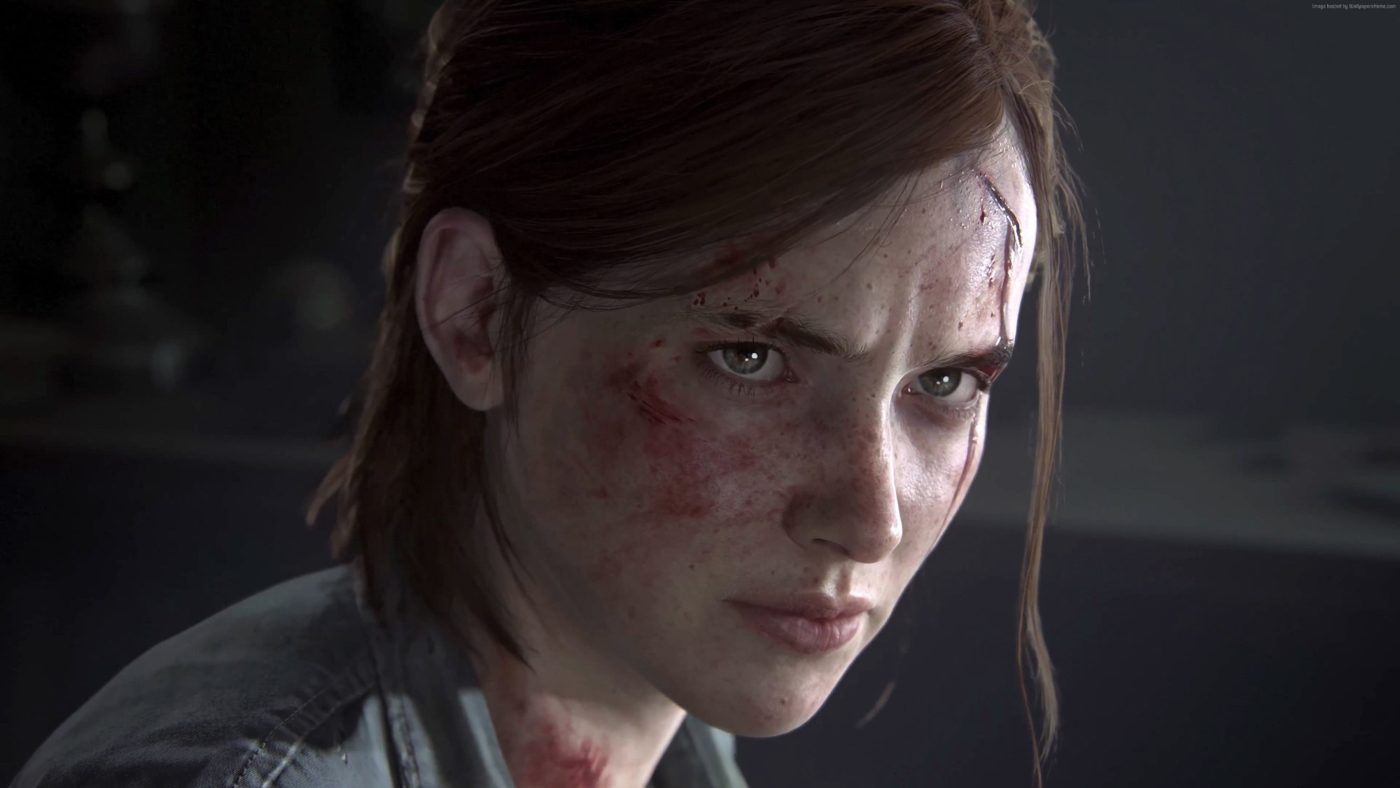
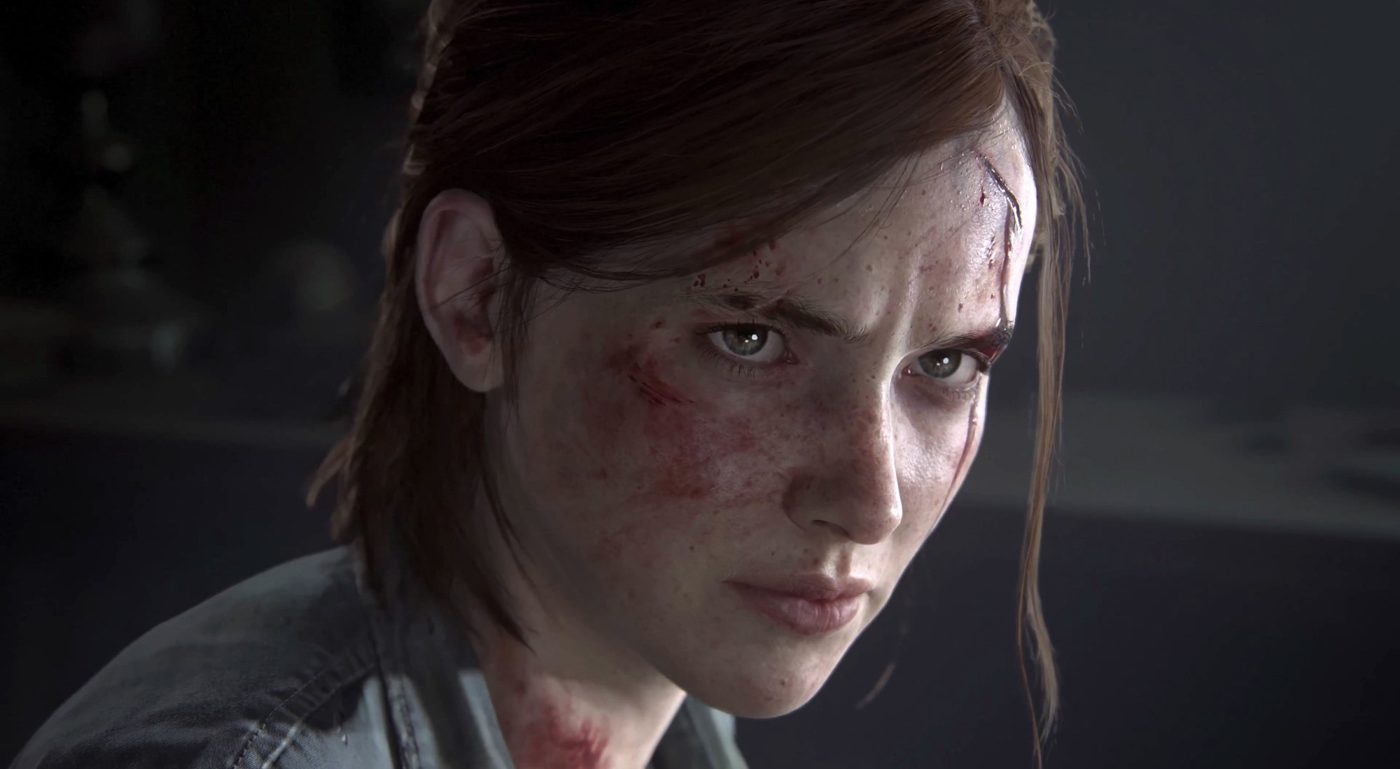
Adiciona a frase da Ellie e a galeria em mosaico
- Cena com "I'm gonna find... and I'm gonna kill... every last one of
  them." (trailer de revelação, PSX 2016), parte por parte ao rolar
- Galeria com 4 fotos em mosaico e tela cheia via :target, sem JS
- Remove a citação repetida da cena da História
- Corta a marca d'água das fotos da Ellie e do baile

Claude-Session: https://claude.ai/code/session_01D7wsjAZrT2zQHAjBL7Bj7g

diff --git a/index.html b/index.html
@@ -87,8 +87,29 @@
             Ellie e Joel construíram uma vida em Jackson, Wyoming. Mas quando um acontecimento violento
             destrói essa paz, Ellie parte numa jornada implacável por Seattle em busca de justiça.
           </p>
-          <p class="citacao cena-parte-4">“Eu preciso encontrá-los.”</p>
         </div>
+      </div>
+    </section>
+
+    <!-- CENA DA FRASE: cada parte aparece conforme a rolagem avança -->
+    <section class="cena cena-frase" aria-labelledby="frase-titulo">
+      <div class="cena-fixa">
+        <img class="cena-img" src="img/citacao-ellie.jpg" alt="Ellie com o rosto ferido, encarando com determinação" width="2000" height="1125" loading="lazy">
+        <div class="cena-sombra" aria-hidden="true"></div>
+
+        <figure class="cena-texto frase">
+          <blockquote>
+            <p id="frase-titulo" class="frase-linhas">
+              <span class="cena-parte-1">I'm gonna find...</span>
+              <span class="cena-parte-2">and I'm gonna kill...</span>
+              <span class="cena-parte-3 frase-destaque">every last one of them.</span>
+            </p>
+          </blockquote>
+          <figcaption class="cena-parte-4">
+            <span class="frase-traducao">“Eu vou encontrar... e vou matar... cada um deles.”</span>
+            <span class="rotulo">Ellie · Trailer de revelação, PlayStation Experience 2016</span>
+          </figcaption>
+        </figure>
       </div>
     </section>
 
@@ -261,6 +282,57 @@
         </div>
       </div>
     </section>
+    <!-- GALERIA
+         Cada foto é um link para #foto-N. O :target do CSS abre a foto
+         em tela cheia; o X (link para #galeria) fecha. Sem JavaScript. -->
+    <section class="galeria" id="galeria">
+      <div class="secao-topo">
+        <p class="rotulo revelar">06 — Galeria</p>
+        <h2 class="revelar">Momentos</h2>
+      </div>
+
+      <div class="mosaico">
+        <a class="mosaico-item g-grande" href="#foto-1" style="--i:0">
+          <img src="img/galeria-ellie.jpg" alt="Ellie de perfil, com o rosto machucado" loading="lazy">
+          <span class="mosaico-legenda">Ellie</span>
+        </a>
+        <a class="mosaico-item " href="#foto-2" style="--i:1">
+          <img src="img/galeria-abby.jpg" alt="Abby gritando, encharcada, com faíscas ao redor" loading="lazy">
+          <span class="mosaico-legenda">Abby</span>
+        </a>
+        <a class="mosaico-item " href="#foto-3" style="--i:2">
+          <img src="img/galeria-baile.jpg" alt="Ellie de costas no baile de Jackson, sob um teto cheio de luzes" loading="lazy">
+          <span class="mosaico-legenda">O baile em Jackson</span>
+        </a>
+        <a class="mosaico-item g-larga" href="#foto-4" style="--i:3">
+          <img src="img/galeria-fazenda.jpg" alt="Fazenda ao pôr do sol, com um coração e as iniciais D + E entalhados na árvore" loading="lazy">
+          <span class="mosaico-legenda">A fazenda</span>
+        </a>
+      </div>
+
+      <!-- fotos em tela cheia -->
+      <div class="lightbox" id="foto-1">
+        <a class="lightbox-fundo" href="#galeria" aria-label="Fechar"></a>
+        <img src="img/galeria-ellie.jpg" alt="Ellie de perfil, com o rosto machucado" loading="lazy">
+        <a class="lightbox-fechar" href="#galeria" aria-label="Fechar">✕</a>
+      </div>
+      <div class="lightbox" id="foto-2">
+        <a class="lightbox-fundo" href="#galeria" aria-label="Fechar"></a>
+        <img src="img/galeria-abby.jpg" alt="Abby gritando, encharcada, com faíscas ao redor" loading="lazy">
+        <a class="lightbox-fechar" href="#galeria" aria-label="Fechar">✕</a>
+      </div>
+      <div class="lightbox" id="foto-3">
+        <a class="lightbox-fundo" href="#galeria" aria-label="Fechar"></a>
+        <img src="img/galeria-baile.jpg" alt="Ellie de costas no baile de Jackson, sob um teto cheio de luzes" loading="lazy">
+        <a class="lightbox-fechar" href="#galeria" aria-label="Fechar">✕</a>
+      </div>
+      <div class="lightbox" id="foto-4">
+        <a class="lightbox-fundo" href="#galeria" aria-label="Fechar"></a>
+        <img src="img/galeria-fazenda.jpg" alt="Fazenda ao pôr do sol, com um coração e as iniciais D + E entalhados na árvore" loading="lazy">
+        <a class="lightbox-fechar" href="#galeria" aria-label="Fechar">✕</a>
+      </div>
+    </section>
+
     <!-- CHAMADA FINAL -->
     <section class="final" id="final">
       <img class="final-img" src="img/final-metro.jpg" alt="Túnel de metrô abandonado iluminado de vermelho, com silhuetas de sobreviventes" width="1920" height="799" loading="lazy">

diff --git a/style.css b/style.css
@@ -622,6 +622,173 @@ a {
   white-space: nowrap;
 }
 
+/* ================= CENA DA FRASE ================= */
+.cena-frase .cena-img {
+  object-position: 65% center;
+}
+
+/* o preto e branco fica na camada de sombra (backdrop-filter),
+   porque a animação de rolagem já usa o filter da imagem */
+.cena-frase .cena-sombra {
+  backdrop-filter: grayscale(1);
+  background:
+    linear-gradient(to right, rgba(11, 12, 12, 0.97) 0%, rgba(11, 12, 12, 0.75) 35%, transparent 65%),
+    linear-gradient(to bottom, var(--fundo) 0%, transparent 15%, transparent 85%, var(--fundo) 100%);
+}
+
+.frase {
+  max-width: 620px;
+}
+
+.frase-linhas {
+  font-family: var(--fonte-titulo);
+  font-size: clamp(2.6rem, 6.5vw, 6rem);
+  line-height: 0.95;
+  text-transform: uppercase;
+}
+
+.frase-linhas span {
+  display: block;
+  color: var(--cinza);
+}
+
+.frase-linhas .frase-destaque {
+  color: var(--branco);
+  margin-top: 0.15em;
+}
+
+.frase figcaption {
+  margin-top: 32px;
+  display: flex;
+  flex-direction: column;
+  gap: 10px;
+}
+
+.frase-traducao {
+  color: var(--cinza);
+  font-size: 1rem;
+  font-style: italic;
+}
+
+.frase .rotulo {
+  margin: 0;
+}
+
+/* ================= GALERIA ================= */
+.galeria {
+  padding: 0 5vw 18vh;
+}
+
+/* mosaico: a primeira foto ocupa 2x2 e a última a linha inteira */
+.mosaico {
+  max-width: 1300px;
+  margin: 0 auto;
+  display: grid;
+  grid-template-columns: repeat(3, 1fr);
+  grid-auto-rows: 240px;
+  gap: 16px;
+}
+
+.mosaico-item {
+  position: relative;
+  overflow: hidden;
+  border-radius: 6px;
+  border: 1px solid var(--linha);
+}
+
+.g-grande {
+  grid-column: span 2;
+  grid-row: span 2;
+}
+
+.g-larga {
+  grid-column: 1 / -1;
+  grid-row: span 2;
+}
+
+.mosaico-item img {
+  width: 100%;
+  height: 100%;
+  object-fit: cover;
+  filter: grayscale(1) brightness(0.7);
+  transition: transform 1s cubic-bezier(0.2, 0.7, 0.2, 1), filter 0.8s ease;
+}
+
+.mosaico-legenda {
+  position: absolute;
+  left: 20px;
+  bottom: 16px;
+  font-family: var(--fonte-titulo);
+  font-size: 1.8rem;
+  text-shadow: 0 2px 20px rgba(0, 0, 0, 0.8);
+  transform: translateY(8px);
+  opacity: 0.85;
+  transition: transform 0.6s ease, opacity 0.6s ease;
+}
+
+.mosaico-item:hover img,
+.mosaico-item:focus-visible img {
+  filter: grayscale(0) brightness(1);
+  transform: scale(1.06);
+}
+
+.mosaico-item:hover .mosaico-legenda,
+.mosaico-item:focus-visible .mosaico-legenda {
+  transform: translateY(0);
+  opacity: 1;
+}
+
+/* LIGHTBOX: escondido até o endereço terminar em #foto-N (:target) */
+.lightbox {
+  position: fixed;
+  inset: 0;
+  z-index: 50;
+  display: grid;
+  place-items: center;
+  padding: 5vh 5vw;
+  visibility: hidden;
+  opacity: 0;
+  transition: opacity 0.4s ease, visibility 0.4s;
+}
+
+.lightbox:target {
+  visibility: visible;
+  opacity: 1;
+}
+
+.lightbox-fundo {
+  position: absolute;
+  inset: 0;
+  background: rgba(5, 6, 6, 0.94);
+  backdrop-filter: blur(6px);
+}
+
+.lightbox img {
+  position: relative;
+  max-width: 100%;
+  max-height: 90vh;
+  border-radius: 4px;
+  transform: scale(0.92);
+  transition: transform 0.5s cubic-bezier(0.2, 0.7, 0.2, 1);
+}
+
+.lightbox:target img {
+  transform: scale(1);
+}
+
+.lightbox-fechar {
+  position: absolute;
+  top: 24px;
+  right: 28px;
+  font-size: 1.6rem;
+  color: var(--cinza);
+  transition: color 0.3s;
+}
+
+.lightbox-fechar:hover {
+  color: var(--branco);
+}
+
 /* ================= CHAMADA FINAL ================= */
 .final {
   position: relative;
@@ -1018,6 +1185,13 @@ a {
     }
   }
 
+  /* GALERIA: fotos entram uma depois da outra */
+  .mosaico-item {
+    animation: card-entrar linear both;
+    animation-timeline: view();
+    animation-range: entry calc(var(--i) * 6%) cover calc(20% + var(--i) * 6%);
+  }
+
   @keyframes linha-crescer {
     from {
       transform: scaleX(0);
@@ -1111,6 +1285,25 @@ a {
 
   .assinatura {
     align-items: center;
+  }
+
+  .mosaico {
+    grid-template-columns: 1fr;
+    grid-auto-rows: 220px;
+  }
+
+  .g-grande,
+  .g-larga {
+    grid-column: auto;
+    grid-row: span 1;
+  }
+
+  .cena-frase .cena-img {
+    object-position: 62% center;
+  }
+
+  .cena-frase .cena-sombra {
+    background: linear-gradient(to bottom, var(--fundo) 0%, transparent 20%, rgba(11, 12, 12, 0.6) 45%, var(--fundo) 80%);
   }
 
   /* no celular não existe hover: descrição sempre visível */

diff --git a/README.md b/README.md
@@ -7,9 +7,11 @@ Landing page de estudo inspirada em The Last of Us Parte II, feita só com **HTM
 - **Neblina:** camada de névoa animada passando pela cena.
 - **Profundidade no título:** uma cópia da imagem recortada no tronco da árvore (`clip-path`) fica na frente do título, então as letras parecem estar atrás da árvore.
 - **Cards:** ao passar o mouse, o card sobe, a foto sai do preto e branco para colorida, aproxima e a descrição aparece. Ao rolar, eles entram um depois do outro.
+- **Frase da Ellie:** "I'm gonna find... and I'm gonna kill... every last one of them." (trailer de revelação, PSX 2016), com cada parte aparecendo conforme a rolagem.
 - **Faixa infinita:** "ENDURE AND SURVIVE" correndo sem parar e, embaixo, os nomes das cidades no sentido contrário. Pausa ao passar o mouse.
 - **Vaga-lumes:** segunda cena presa na tela, com o texto embaixo à direita (`cena-direita cena-baixo`) para não cobrir o símbolo na parede.
 - **Infectados:** os 4 estágios da infecção em cards, ligados por uma linha que cresce ao rolar. As fotos saem do preto e branco para coloridas no hover. Card sem foto: troque o `<div class="card-vazio">` por um `<img>`.
+- **Galeria:** mosaico em grid; ao clicar, a foto abre em tela cheia usando `:target` (sem JavaScript).
 - **Chamada final:** imagem em tela cheia que se afasta ao entrar, título "Sobreviva." e botões para a loja e o trailer.
 - **Números:** contam de 0 até o valor final conforme entram na tela (`@property` + `counter()`), e a linha de cima cresce junto.
 - **Rodapé:** assinatura "fusas." com o ponto piscando no hover e selo giratório em SVG.
